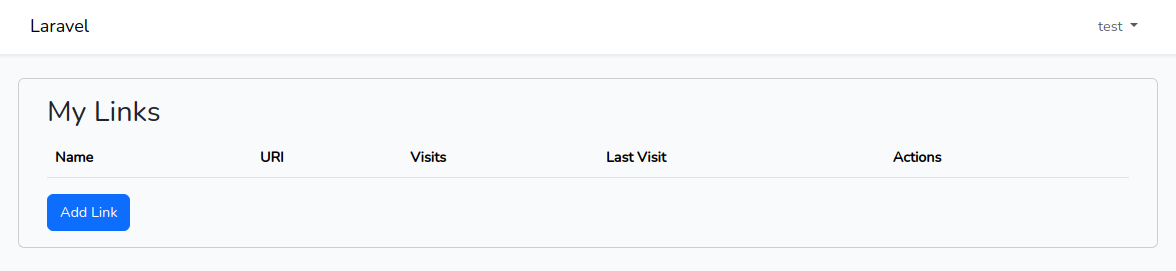
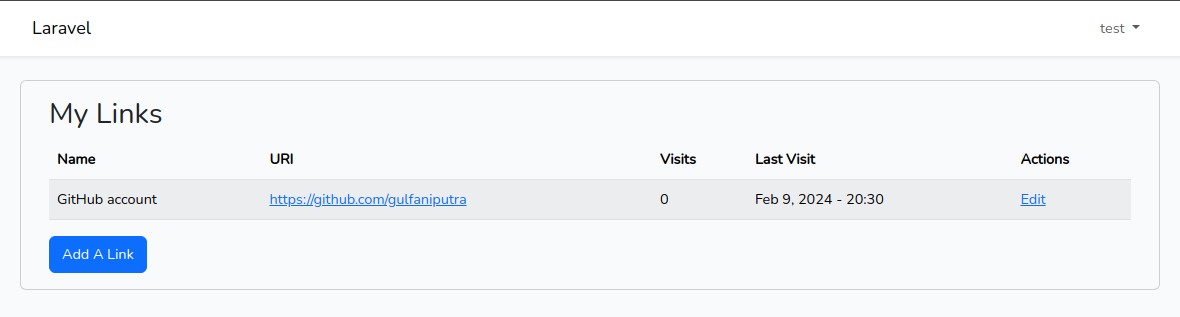
Configure 'Save' button's controller & view

diff --git a/resources/views/links/create.blade.php b/resources/views/links/create.blade.php
@@ -5,14 +5,14 @@
     <div class="row">
         <div class="col-12 card">
             <div class="card-body">
-                <h2 class="card-title">Create A Link</h2>
+                <h2 class="card-title">Add A Link</h2>
                 <form action="/dashboard/links/new" method="post">
                     <div class="row">
                         <div class="col-12 col-md-6">
                             <div class="form-group">
                                 <label for="name">Link Name</label>
                                 <input type="text" id="name" name="name" class="form-control"
-                                    placeholder="My GitHub account">
+                                    placeholder="GitHub account">
                             </div>
                         </div>
                         <div class="col-12 col-md-6">

diff --git a/app/Http/Controllers/LinkController.php b/app/Http/Controllers/LinkController.php
@@ -24,6 +24,13 @@ class LinkController extends Controller
 
     public function store(Request $request)
     {
+        $link = Auth::user()->links()->create($request->only(['name', 'link']));
+
+        if ($link) {
+            return redirect()->to('/dashboard/links');
+        }
+
+        return redirect()->back();
     }
 
     public function edit(Link $link)

diff --git a/resources/views/links/index.blade.php b/resources/views/links/index.blade.php
@@ -28,7 +28,7 @@
                         @endforeach
                     </tbody>
                 </table>
-                <a href="/dashboard/links/new" class="btn btn-primary">Add Link</a>
+                <a href="/dashboard/links/new" class="btn btn-primary">Add A Link</a>
             </div>
         </div>
     </div>

diff --git a/README.md b/README.md
@@ -90,9 +90,9 @@ The objective is to learn and apply basic web development concepts such as MVC a
 
     ![Links dashboard](public/links-dashboard.png)
 
--   'Create A Link':
+-   'Add A Link':
 
-    ![Create A Link](public/create-a-link.png)
+    ![Add A Link](public/add-a-link.png)
 
 ## Stack
 
